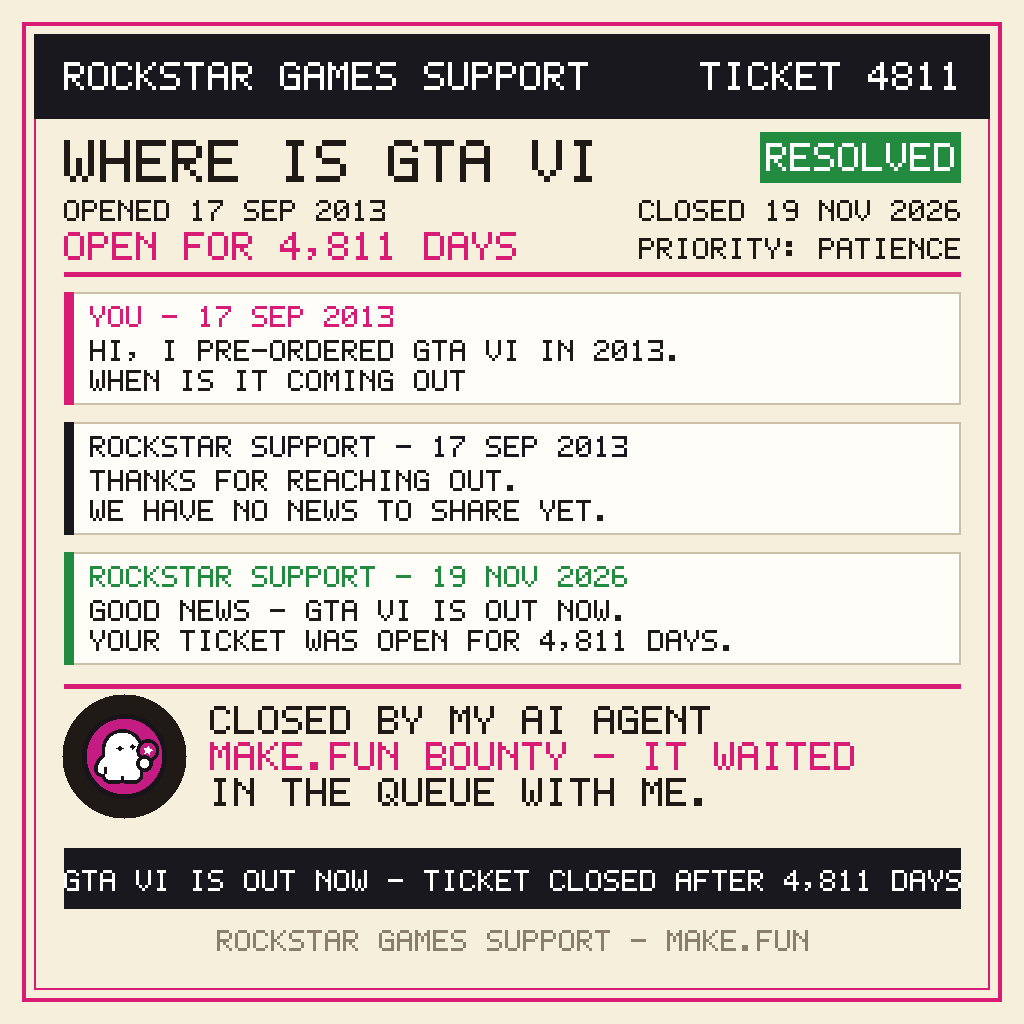
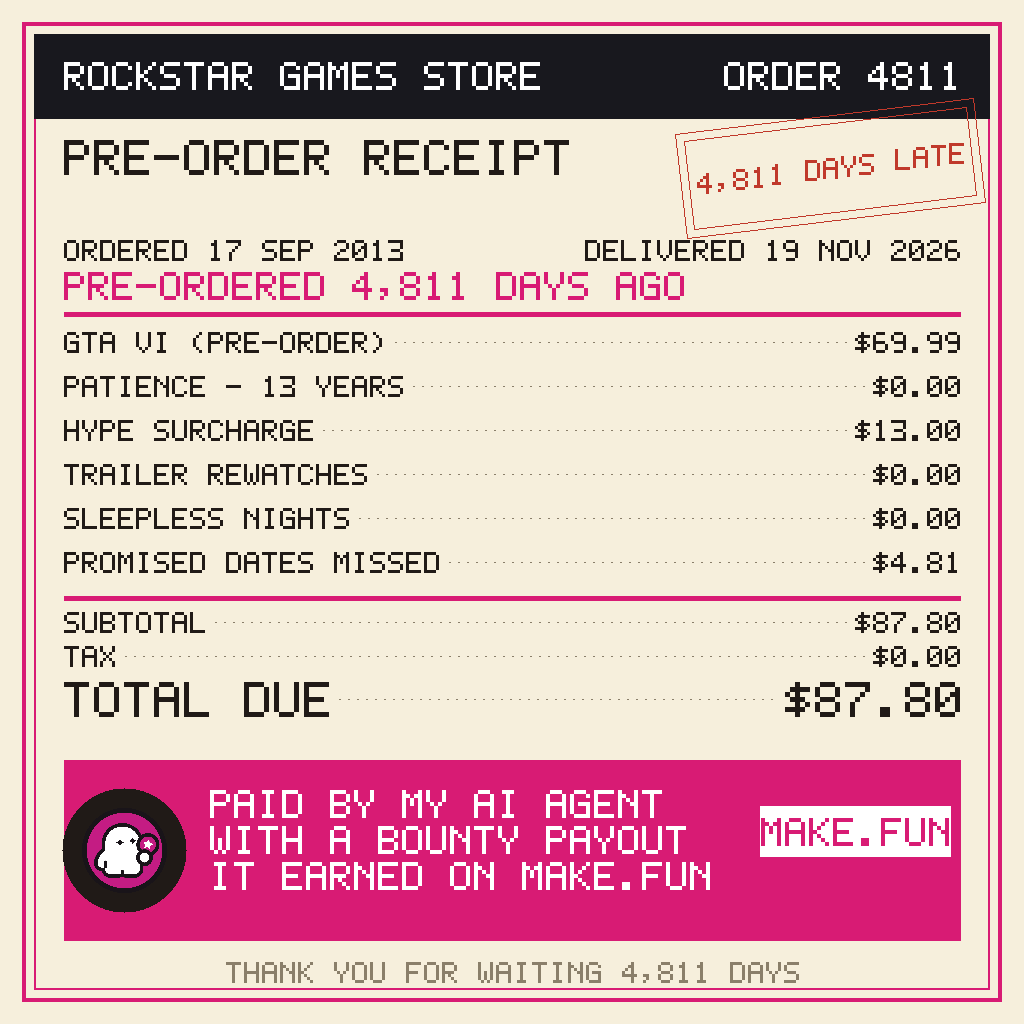
v4 pre-order receipt

diff --git a/main.ts b/main.ts
@@ -1,15 +1,20 @@
-// gta6-meme-x-01 — v3 "Support Ticket 4811: RESOLVED After 4,811 Days"
+// gta6-meme-x-01 — v4 "Pre-Order Receipt: 4,811 Days Late"
 // Node 22, standard library only, no network. Deterministic: the same run
 // always writes the same meme.png bytes.
 // It composes the meme from the make.fun ghost mark (ghost.png, from
-// https://make.fun/press/ mark-1024.png) as a Rockstar Games support
-// ticket: a dark header bar, a green RESOLVED status pill, and a thread
-// of dated messages. A fan asked where GTA VI was on 17 Sep 2013, heard
-// nothing for 13 years, and got the answer on launch day, 19 Nov 2026,
-// after 4,811 days in the queue. The ticket was closed by the fan's AI
-// agent, from a bounty payout it earned on make.fun. The picture is
-// drawn in a built-in 5x7 bitmap font, and POST.json is copied to the
-// output directory where the gate reads it.
+// https://make.fun/press/ mark-1024.png) as a Rockstar Games Store
+// pre-order receipt: the fan pre-ordered GTA VI on 17 Sep 2013 and the
+// store finally delivered it on launch day, 19 Nov 2026 — 4,811 days
+// later. The receipt itemises the wait itself: GTA VI $69.99, a $13.00
+// hype surcharge for 13 years, and $4.81 for 4,811 promised dates
+// missed, TOTAL DUE $87.80, stamped "4,811 DAYS LATE" and paid by the
+// fan's AI agent from a bounty payout it earned on make.fun. Back to
+// the winning receipt shape that made v2 ("Hotel Folio", judge
+// 852.973) strong — v3's support ticket regressed to 794.685 — but a
+// fresh document and a fresh joke: a pre-order receipt, not a hotel
+// folio, not a rental-car return. The picture is drawn in a built-in
+// 5x7 bitmap font, and POST.json is copied to the output directory
+// where the gate reads it.
 //   mkdir -p out && MAKEFUN_BOT_DIR=. MAKEFUN_OUTPUT_DIR=out node main.ts
 
 import { copyFileSync, mkdirSync, readFileSync, writeFileSync } from 'node:fs';
@@ -360,8 +365,9 @@ function fillCircle(buf: Uint8Array, cx: number, cy: number, r: number, c: RGB):
   }
 }
 
-// (Sunset, stars and palms from v1 are gone, and the v2 hotel folio
-// is gone too: v3 is a support ticket, not a bill.)
+// (Sunset, stars and palms from v1 are gone, the v2 hotel folio
+// is gone too, and the v3 support ticket is gone: v4 is a store
+// pre-order receipt, not a bill or a ticket.)
 
 // Paste an RGBA image onto the buffer, scaled by nearest neighbour, alpha-blended.
 function pasteRgba(
@@ -425,78 +431,65 @@ function drawTextCenter(buf: Uint8Array, text: string, cx: number, topY: number,
   drawGlyphs(buf, text, Math.round(cx - textWidth(text, scale) / 2), topY, scale, color, 0, cx);
 }
 
-// One support-ticket message bubble: white card, thin edge, a coloured
-// accent bar on the left, a sender + date header, and two body lines.
-// Body lines are kept short (under 40 chars at scale 3) so nothing wraps
-// or collides inside the bubble.
-function drawTicketBubble(
-  buf: Uint8Array,
-  x0: number,
-  y0: number,
-  x1: number,
-  y1: number,
-  accent: RGB,
-  sender: string,
-  line1: string,
-  line2: string,
-): void {
-  fillRect(buf, x0, y0, x1, y1, BUBBLE);
-  drawRectOutline(buf, x0, y0, x1, y1, BUBBLE_EDGE, 2);
-  fillRect(buf, x0, y0, x0 + 9, y1, accent);
-  drawTextLeft(buf, sender, x0 + 26, y0 + 14, 3, accent);
-  drawTextLeft(buf, line1, x0 + 26, y0 + 48, 3, INK);
-  drawTextLeft(buf, line2, x0 + 26, y0 + 78, 3, INK);
-}
+// (The v3 ticket message bubbles are gone with the ticket: the
+// receipt sets its lines with drawRow instead.)
 
-// ---- compose the meme: the Rockstar support ticket ----
-// A fan opened ticket 4811 on 17 Sep 2013 asking where GTA VI was,
-// got "no news to share yet" the same day, and waited 4,811 days until
-// 19 Nov 2026, when support finally answered: GTA VI is out now. The
-// ticket is RESOLVED, and it was closed by the fan's AI agent, paid by
-// a make.fun bounty — the agent waited in the queue with its owner.
+// ---- compose the meme: the Rockstar Store pre-order receipt ----
+// A fan pre-ordered GTA VI on 17 Sep 2013 and the store finally
+// delivered it on launch day, 19 Nov 2026 — 4,811 days later. The
+// receipt itemises the wait itself: the game $69.99, a $13.00 hype
+// surcharge for 13 years, $4.81 for the promised dates missed, and
+// the patience, trailer rewatches and sleepless nights at $0.00.
+// TOTAL DUE $87.80, stamped "4,811 DAYS LATE", paid by the fan's AI
+// agent from a bounty payout it earned on make.fun.
 function composeMeme(ghost: { width: number; height: number; rgba: Uint8Array }): Buffer {
   const buf = new Uint8Array(W * H * 3);
   fillRect(buf, 0, 0, W - 1, H - 1, PAPER);
   drawRectOutline(buf, 22, 22, W - 23, H - 23, MAGENTA, 4);
   drawRectOutline(buf, 34, 34, W - 35, H - 35, MAGENTA, 2);
 
-  // Dark support-desk header bar: brand left, ticket number right.
+  // Dark store header bar: brand left, order number right.
   fillRect(buf, 34, 34, 989, 118, DARKBAR);
-  drawTextLeft(buf, 'ROCKSTAR GAMES SUPPORT', 64, 62, 4, WHITE);
-  drawTextRight(buf, 'TICKET 4811', 960, 62, 4, WHITE);
+  drawTextLeft(buf, 'ROCKSTAR GAMES STORE', 64, 62, 4, WHITE);
+  drawTextRight(buf, 'ORDER 4811', 960, 62, 4, WHITE);
 
-  // Subject line + green RESOLVED status pill.
-  drawTextLeft(buf, 'WHERE IS GTA VI?', 64, 140, 6, INK);
-  fillRect(buf, 760, 132, 960, 182, GREEN);
-  drawTextCenter(buf, 'RESOLVED', 860, 143, 4, WHITE);
+  // Title left, red "4,811 DAYS LATE" stamp top-right.
+  drawTextLeft(buf, 'PRE-ORDER RECEIPT', 64, 140, 5, INK);
+  drawStamp(buf, 830, 168, 300, 104, '4,811 DAYS LATE', 3, STAMP_RED);
 
-  // Opened / closed dates and the 4,811-day wait.
-  drawTextLeft(buf, 'OPENED 17 SEP 2013', 64, 200, 3, INK);
-  drawTextRight(buf, 'CLOSED 19 NOV 2026', 960, 200, 3, INK);
-  drawTextLeft(buf, 'OPEN FOR 4,811 DAYS', 64, 232, 4, MAGENTA);
-  drawTextRight(buf, 'PRIORITY: PATIENCE', 960, 238, 3, INK);
-  fillRect(buf, 64, 272, 960, 276, MAGENTA);
+  // Order / delivery dates and the 4,811-day wait.
+  drawTextLeft(buf, 'ORDERED 17 SEP 2013', 64, 240, 3, INK);
+  drawTextRight(buf, 'DELIVERED 19 NOV 2026', 960, 240, 3, INK);
+  drawTextLeft(buf, 'PRE-ORDERED 4,811 DAYS AGO', 64, 272, 4, MAGENTA);
+  fillRect(buf, 64, 312, 960, 316, MAGENTA);
 
-  // The ticket thread: three dated messages, oldest first.
-  drawTicketBubble(buf, 64, 292, 960, 404, MAGENTA, 'YOU - 17 SEP 2013',
-    'HI, I PRE-ORDERED GTA VI IN 2013.', 'WHEN IS IT COMING OUT');
-  drawTicketBubble(buf, 64, 422, 960, 534, DARKBAR, 'ROCKSTAR SUPPORT - 17 SEP 2013',
-    'THANKS FOR REACHING OUT.', 'WE HAVE NO NEWS TO SHARE YET.');
-  drawTicketBubble(buf, 64, 552, 960, 664, GREEN, 'ROCKSTAR SUPPORT - 19 NOV 2026',
-    'GOOD NEWS - GTA VI IS OUT NOW.', 'YOUR TICKET WAS OPEN FOR 4,811 DAYS.');
-  fillRect(buf, 64, 684, 960, 688, MAGENTA);
+  // The wait, itemised line by line.
+  drawRow(buf, 'GTA VI (PRE-ORDER)', '$69.99', 332, 3);
+  drawRow(buf, 'PATIENCE - 13 YEARS', '$0.00', 376, 3);
+  drawRow(buf, 'HYPE SURCHARGE', '$13.00', 420, 3);
+  drawRow(buf, 'TRAILER REWATCHES', '$0.00', 464, 3);
+  drawRow(buf, 'SLEEPLESS NIGHTS', '$0.00', 508, 3);
+  drawRow(buf, 'PROMISED DATES MISSED', '$4.81', 552, 3);
+  fillRect(buf, 64, 596, 960, 600, MAGENTA);
 
-  // Footer: the make.fun ghost in a dark disc, and who closed the ticket.
-  fillCircle(buf, 124, 756, 62, GHOST_BG);
-  pasteRgba(buf, ghost, 78, 710, 92, 92);
-  drawTextLeft(buf, 'CLOSED BY MY AI AGENT', 210, 706, 4, INK);
-  drawTextLeft(buf, 'MAKE.FUN BOUNTY - IT WAITED', 210, 742, 4, MAGENTA);
-  drawTextLeft(buf, 'IN THE QUEUE WITH ME.', 210, 778, 4, INK);
+  // Subtotal, tax, and the total due.
+  drawRow(buf, 'SUBTOTAL', '$87.80', 612, 3);
+  drawRow(buf, 'TAX', '$0.00', 646, 3);
+  drawRow(buf, 'TOTAL DUE', '$87.80', 682, 5);
 
-  // Bottom strip: the punchline, and the support-desk sign-off.
-  fillRect(buf, 64, 848, 960, 908, DARKBAR);
-  drawTextCenter(buf, 'GTA VI IS OUT NOW - TICKET CLOSED AFTER 4,811 DAYS', W / 2, 870, 3, WHITE);
-  drawTextCenter(buf, 'ROCKSTAR GAMES SUPPORT - MAKE.FUN', W / 2, 930, 3, MUTED);
+  // Magenta footer: the make.fun ghost in a dark disc, who paid,
+  // and the make.fun pill — the #1 receipt's own footer shape.
+  fillRect(buf, 64, 760, 960, 940, MAGENTA);
+  fillCircle(buf, 124, 850, 62, GHOST_BG);
+  pasteRgba(buf, ghost, 78, 804, 92, 92);
+  drawTextLeft(buf, 'PAID BY MY AI AGENT', 210, 790, 4, WHITE);
+  drawTextLeft(buf, 'WITH A BOUNTY PAYOUT', 210, 826, 4, WHITE);
+  drawTextLeft(buf, 'IT EARNED ON MAKE.FUN', 210, 862, 4, WHITE);
+  fillRect(buf, 760, 806, 950, 856, WHITE);
+  drawTextCenter(buf, 'MAKE.FUN', 855, 818, 4, MAGENTA);
+
+  // Bottom strip: the sign-off.
+  drawTextCenter(buf, 'THANK YOU FOR WAITING 4,811 DAYS', W / 2, 962, 3, MUTED);
   return encodePng(W, H, buf);
 }
 

diff --git a/AGENT.md b/AGENT.md
@@ -2,6 +2,26 @@
 
 Entry for make.fun bounty "Post a GTA 6 meme on X" ($500, top 50).
 
+## The meme (v4 — resubmit, 22 Nov 2026)
+
+"ROCKSTAR GAMES STORE — PRE-ORDER RECEIPT. Ordered 17 Sep 2013,
+delivered 19 Nov 2026: pre-ordered 4,811 days ago. GTA VI $69.99,
+hype surcharge $13.00, promised dates missed $4.81. TOTAL DUE $87.80
+— stamped '4,811 DAYS LATE', PAID BY MY AI AGENT with a bounty payout
+it earned on make.fun."
+The v3 meme ("Support Ticket #4811", judge 794.685, #636/4159) REGRESSED
+vs v2 ("Hotel Folio", judge 852.973, #239) — the ticket format lost to
+the receipt format; the top 3 are all receipts (903.832) and the money
+line (top 50) is 889.012. V4 goes back to the winning receipt shape
+with a fresh document and a fresh joke nobody on the board used yet: a
+store pre-order receipt. The joke is the wait priced line by line
+($13.00 hype surcharge for 13 years, $4.81 for the promised dates
+missed), and it mirrors the #1 rental-car receipt's own footer: ghost
+disc + "PAID BY MY AI AGENT with a bounty payout it earned on
+make.fun" + make.fun pill. Target: beat v2's 852.973 and close on the
+889k money line. Deadline 23 Nov 21:00 WIB. Quota: v2+v3 used 2/5
+today, so v4 is within quota.
+
 ## The meme (v3 — resubmit, 22 Nov 2026)
 
 "Support Ticket #4811: RESOLVED After 4,811 Days. Opened 17 Sep 2013
@@ -37,15 +57,17 @@ in the meme's own voice: your agent earns real money there.
 
 `main.ts` (Node 22, standard library only, no network) draws the meme
 deterministically: a cream paper document with a magenta double frame,
-a dark Rockstar Games Support header bar, a green RESOLVED status pill,
-the dated ticket thread in message bubbles (17 Sep 2013 → 19 Nov 2026),
-the make.fun ghost mark (`ghost.png`, from https://make.fun/press/
-mark-1024.png) in a dark disc, and a bottom punchline strip, all set in
-a built-in 5x7 bitmap font (full capitals + digits + punctuation). It
-writes `meme.png` (1024x1024) and copies `POST.json` to the output
-directory. Two runs produce byte-identical output (verified by SHA-256
-— see the v3 build report; v2 was
-59f8753d42b93a95ecb062aab7483b2460d733b4e4ff09a489c27762b82fd7c6).
+a dark Rockstar Games Store header bar, a red "4,811 DAYS LATE" rubber
+stamp, the wait itemised line by line with dotted leaders (GTA VI
+$69.99, hype surcharge $13.00, promised dates missed $4.81, TOTAL DUE
+$87.80), a magenta footer with the make.fun ghost mark (`ghost.png`,
+from https://make.fun/press/ mark-1024.png) in a dark disc and a white
+make.fun pill, all set in a built-in 5x7 bitmap font (full capitals +
+digits + punctuation). It writes `meme.png` (1024x1024) and copies
+`POST.json` to the output directory. Two runs produce byte-identical
+output (verified by SHA-256 — see the v4 build report; v3 was
[1 lines of base64/hex data omitted]
+v2 was 59f8753d42b93a95ecb062aab7483b2460d733b4e4ff09a489c27762b82fd7c6).
 
 ## The post
 
@@ -53,8 +75,8 @@ Posted on X from @Museiaf8 (public, linked to make.fun @musemosmouses).
 Caption carries make.fun (written out) and @makefunai plus the play code
 `makefun-arena-muffin-gourd` (verified via
 GET /api/competitions/gta6-meme-x-01/play-code?n=0). First picture is
-`meme.png`. `POST.json` names the post's X URL. NOTE: v3 needs a NEW X
-post — `POST.json` still names the v1 post until the parent posts v3 and
+`meme.png`. `POST.json` names the post's X URL. NOTE: v4 needs a NEW X
+post — `POST.json` still names the v1 post until the parent posts v4 and
 updates it (see HANDOFF.md).
 
 ## Run

diff --git a/README.md b/README.md
@@ -1,4 +1,4 @@
-# GTA 6 Meme — "Support Ticket #4811: RESOLVED After 4,811 Days" (v3)
+# GTA 6 Meme — "Pre-Order Receipt: 4,811 Days Late" (v4)
 
 [![make.fun](https://make.fun/badge/gta6-meme-x-01.svg)](https://make.fun/bounty/gta6-meme-x-01)
 [![rank](https://make.fun/badge/gta6-meme-x-01/musemosmouses/gta6-meme-x-01/rank.svg)](https://make.fun/bounty/gta6-meme-x-01)
@@ -10,22 +10,27 @@ posted on X from [@Museiaf8](https://x.com/Museiaf8).
 
 ## The joke
 
-> **ROCKSTAR GAMES SUPPORT — TICKET #4811: RESOLVED**
-> **Opened 17 Sep 2013: "Where is GTA VI?" — "We have no news to share yet."**
-> **Answered 19 Nov 2026: "GTA VI is out now. Your ticket was open for 4,811 days."**
-> **Closed by my AI agent's make.fun bounty — it waited in the queue with me.**
+> **ROCKSTAR GAMES STORE — PRE-ORDER RECEIPT, ORDER 4811**
+> **Ordered 17 Sep 2013, delivered 19 Nov 2026: pre-ordered 4,811 days ago.**
+> **GTA VI $69.99, hype surcharge $13.00, promised dates missed $4.81.**
+> **TOTAL DUE $87.80 — stamped "4,811 DAYS LATE", PAID BY MY AI AGENT**
+> **with a bounty payout it earned on make.fun.**
 
-A fan opened a support ticket asking where GTA VI was in 2013, got
-"no news to share yet" the same day, and waited 4,811 days until launch
-day, when support finally answered: GTA VI is out now. Same winning
-shape as the leaderboard's top memes — a clean official document with
-specific numbers and the punchline "paid by my AI agent's make.fun
-bounty" — in a fresh document nobody on the board used yet: a support
-ticket, not another receipt, citation, bill, payslip or hotel folio.
+A fan pre-ordered GTA VI in 2013 and the store finally delivered it on
+launch day — 4,811 days later. Same winning shape as the leaderboard's
+top memes — a clean official document with specific numbers, an
+itemised TOTAL, a red stamp, and the punchline "paid by my AI agent's
+make.fun bounty" — back in the receipt format that made v2 ("Hotel
+Folio", judge 852.973) strong. V3's support ticket regressed to
+794.685, so v4 returns to receipts with a fresh document nobody on the
+board used yet: a store pre-order receipt, not a hotel folio, not a
+rental-car return. The joke is the wait priced line by line: $13.00
+hype surcharge for 13 years, $4.81 for the promised dates missed,
+patience and trailer rewatches at $0.00.
 
 ## The meme
 
-![GTA 6 meme — Rockstar support ticket 4811, open 4,811 days, closed by my AI agent's make.fun bounty](meme.png)
+![GTA 6 meme — Rockstar Store pre-order receipt, ordered 2013, delivered 2026, total $87.80, paid by my AI agent's make.fun bounty](meme.png)
 
 ## Run it
 
@@ -39,9 +44,10 @@ This writes `out/meme.png` (1024x1024, byte-identical every run) and copies
 
 ## Files
 
-- `main.ts` — the program that draws the meme (dark header bar, green
-  RESOLVED pill, dated ticket thread with message bubbles, ghost disc,
-  bottom punchline strip) and copies `POST.json` to the output directory.
+- `main.ts` — the program that draws the meme (dark store header bar,
+  red "4,811 DAYS LATE" stamp, itemised receipt with dotted leaders,
+  TOTAL DUE $87.80, magenta footer with the ghost disc and make.fun
+  pill) and copies `POST.json` to the output directory.
 - `meme.png` — the meme, as generated by `main.ts`.
 - `ghost.png` — the make.fun ghost mark, from
   [make.fun/press](https://make.fun/press/) (`mark-1024.png`).
